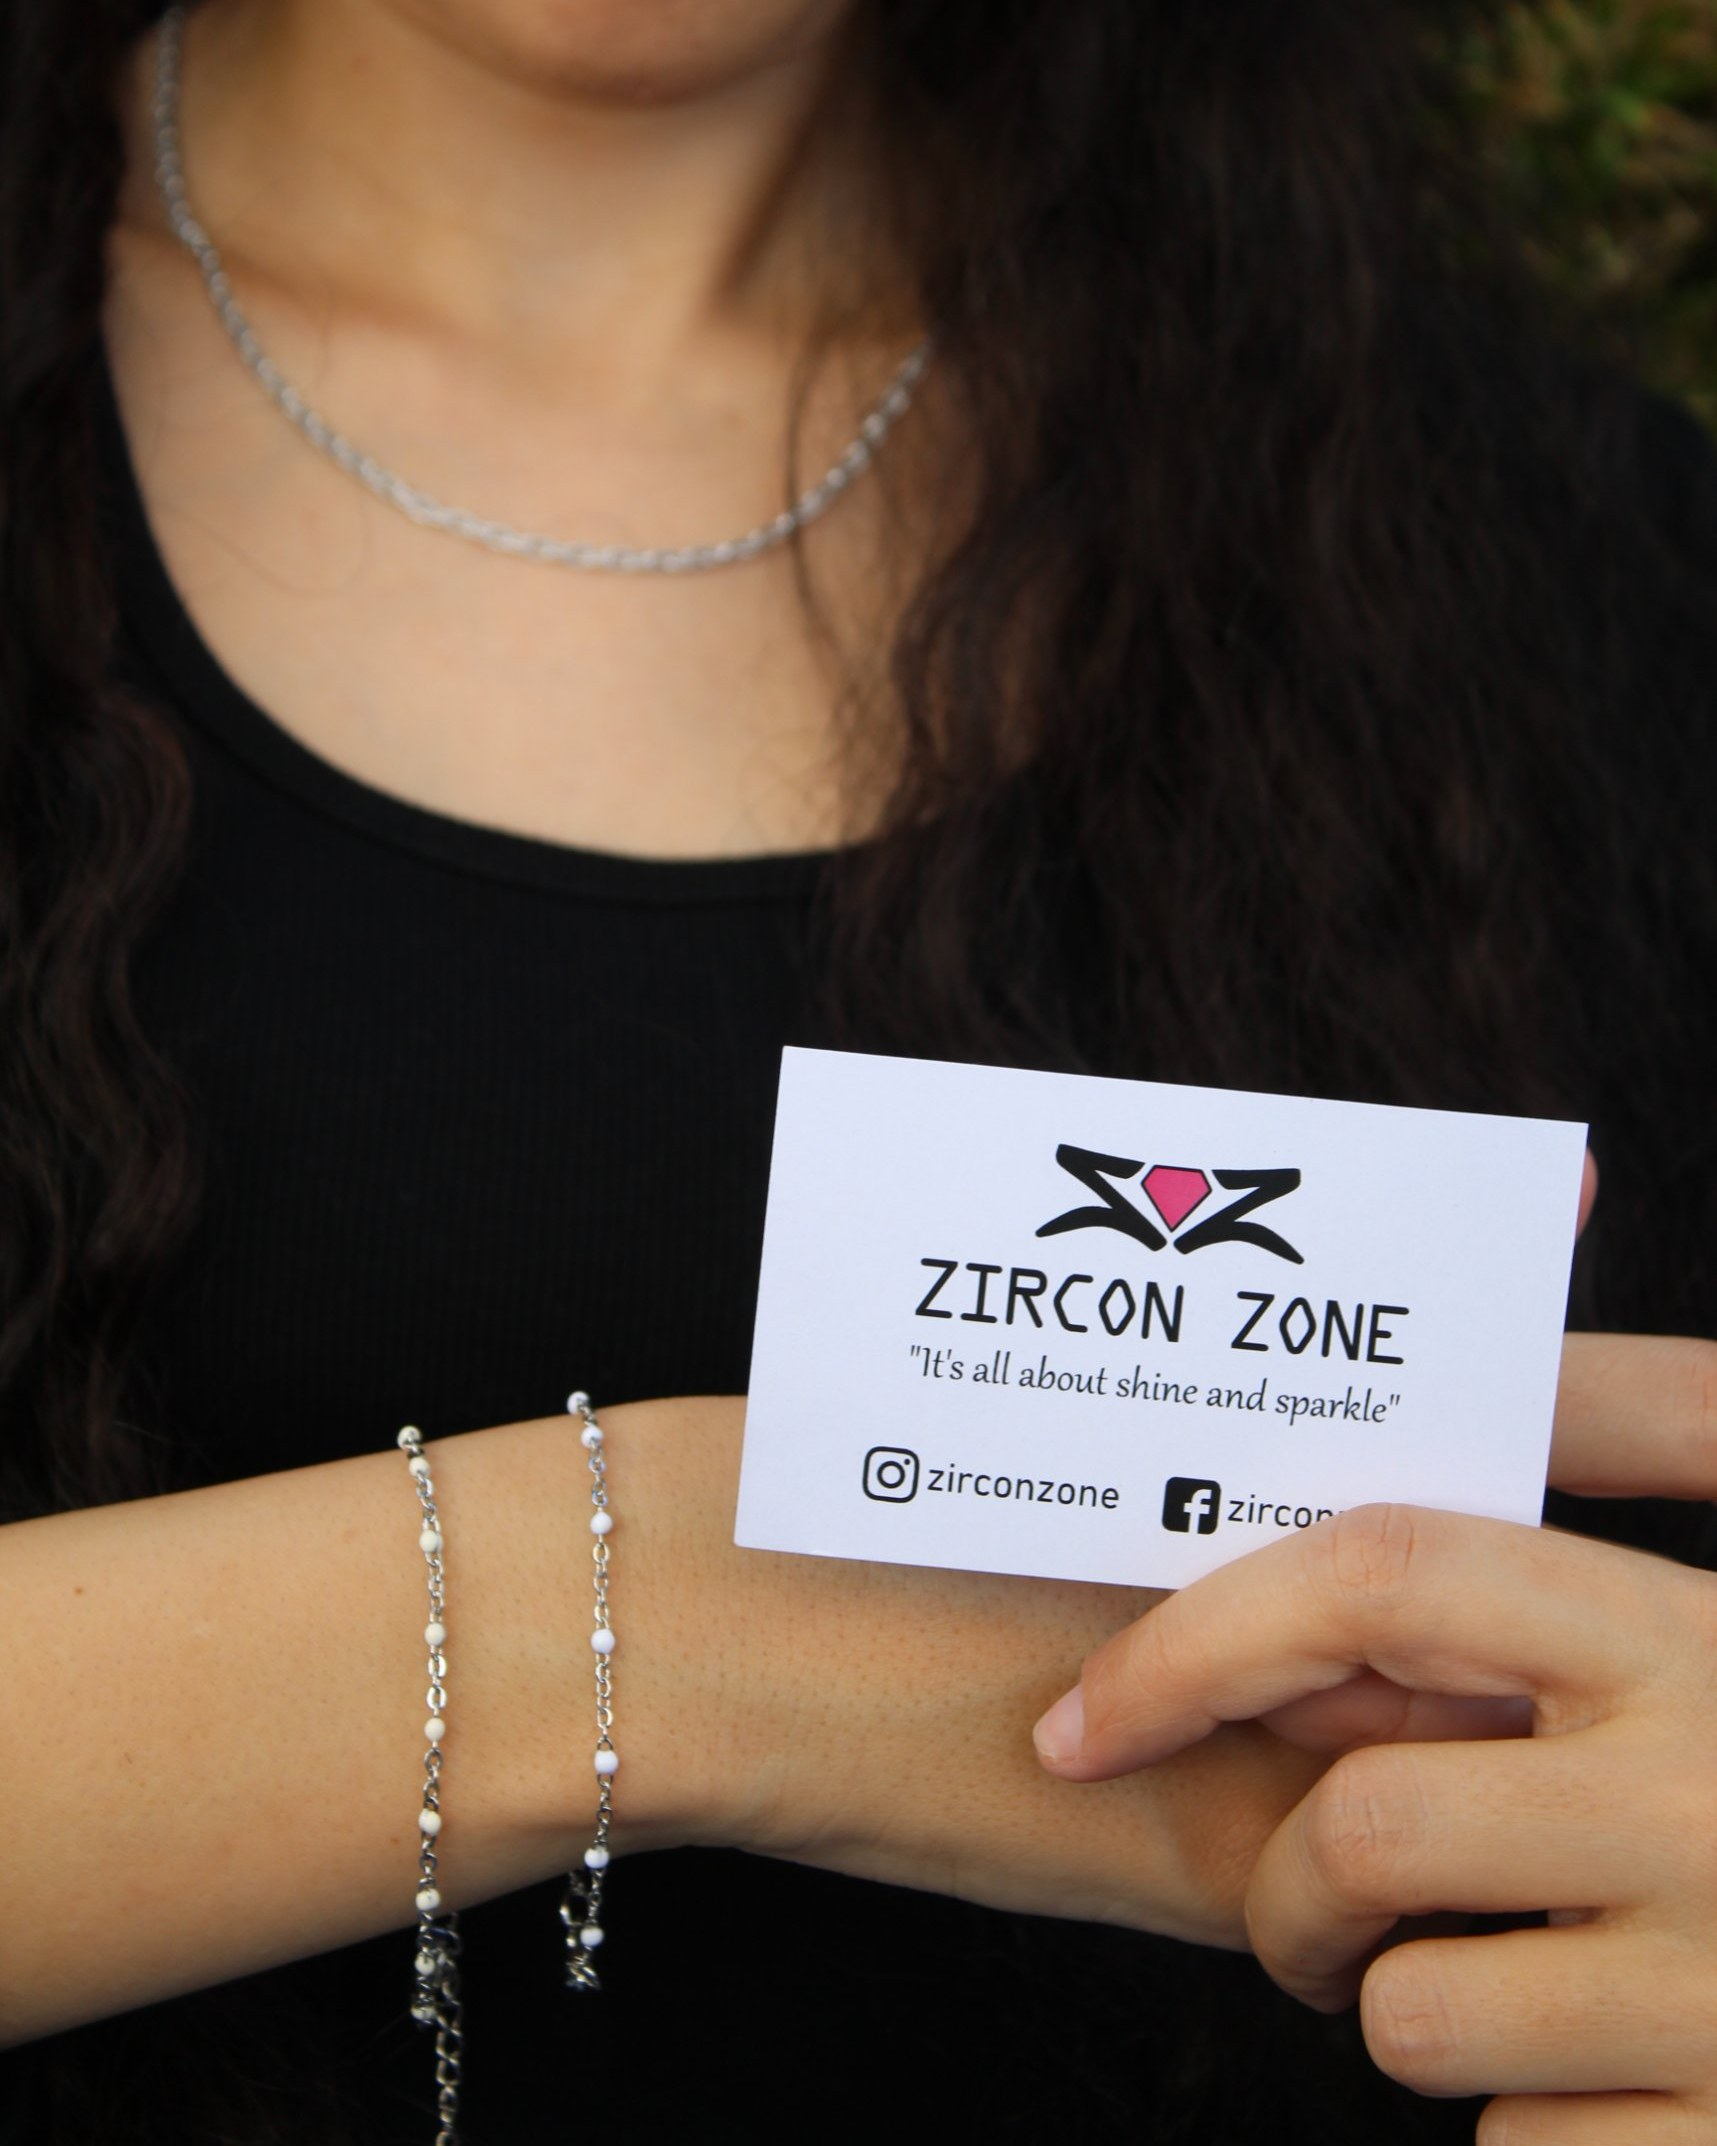
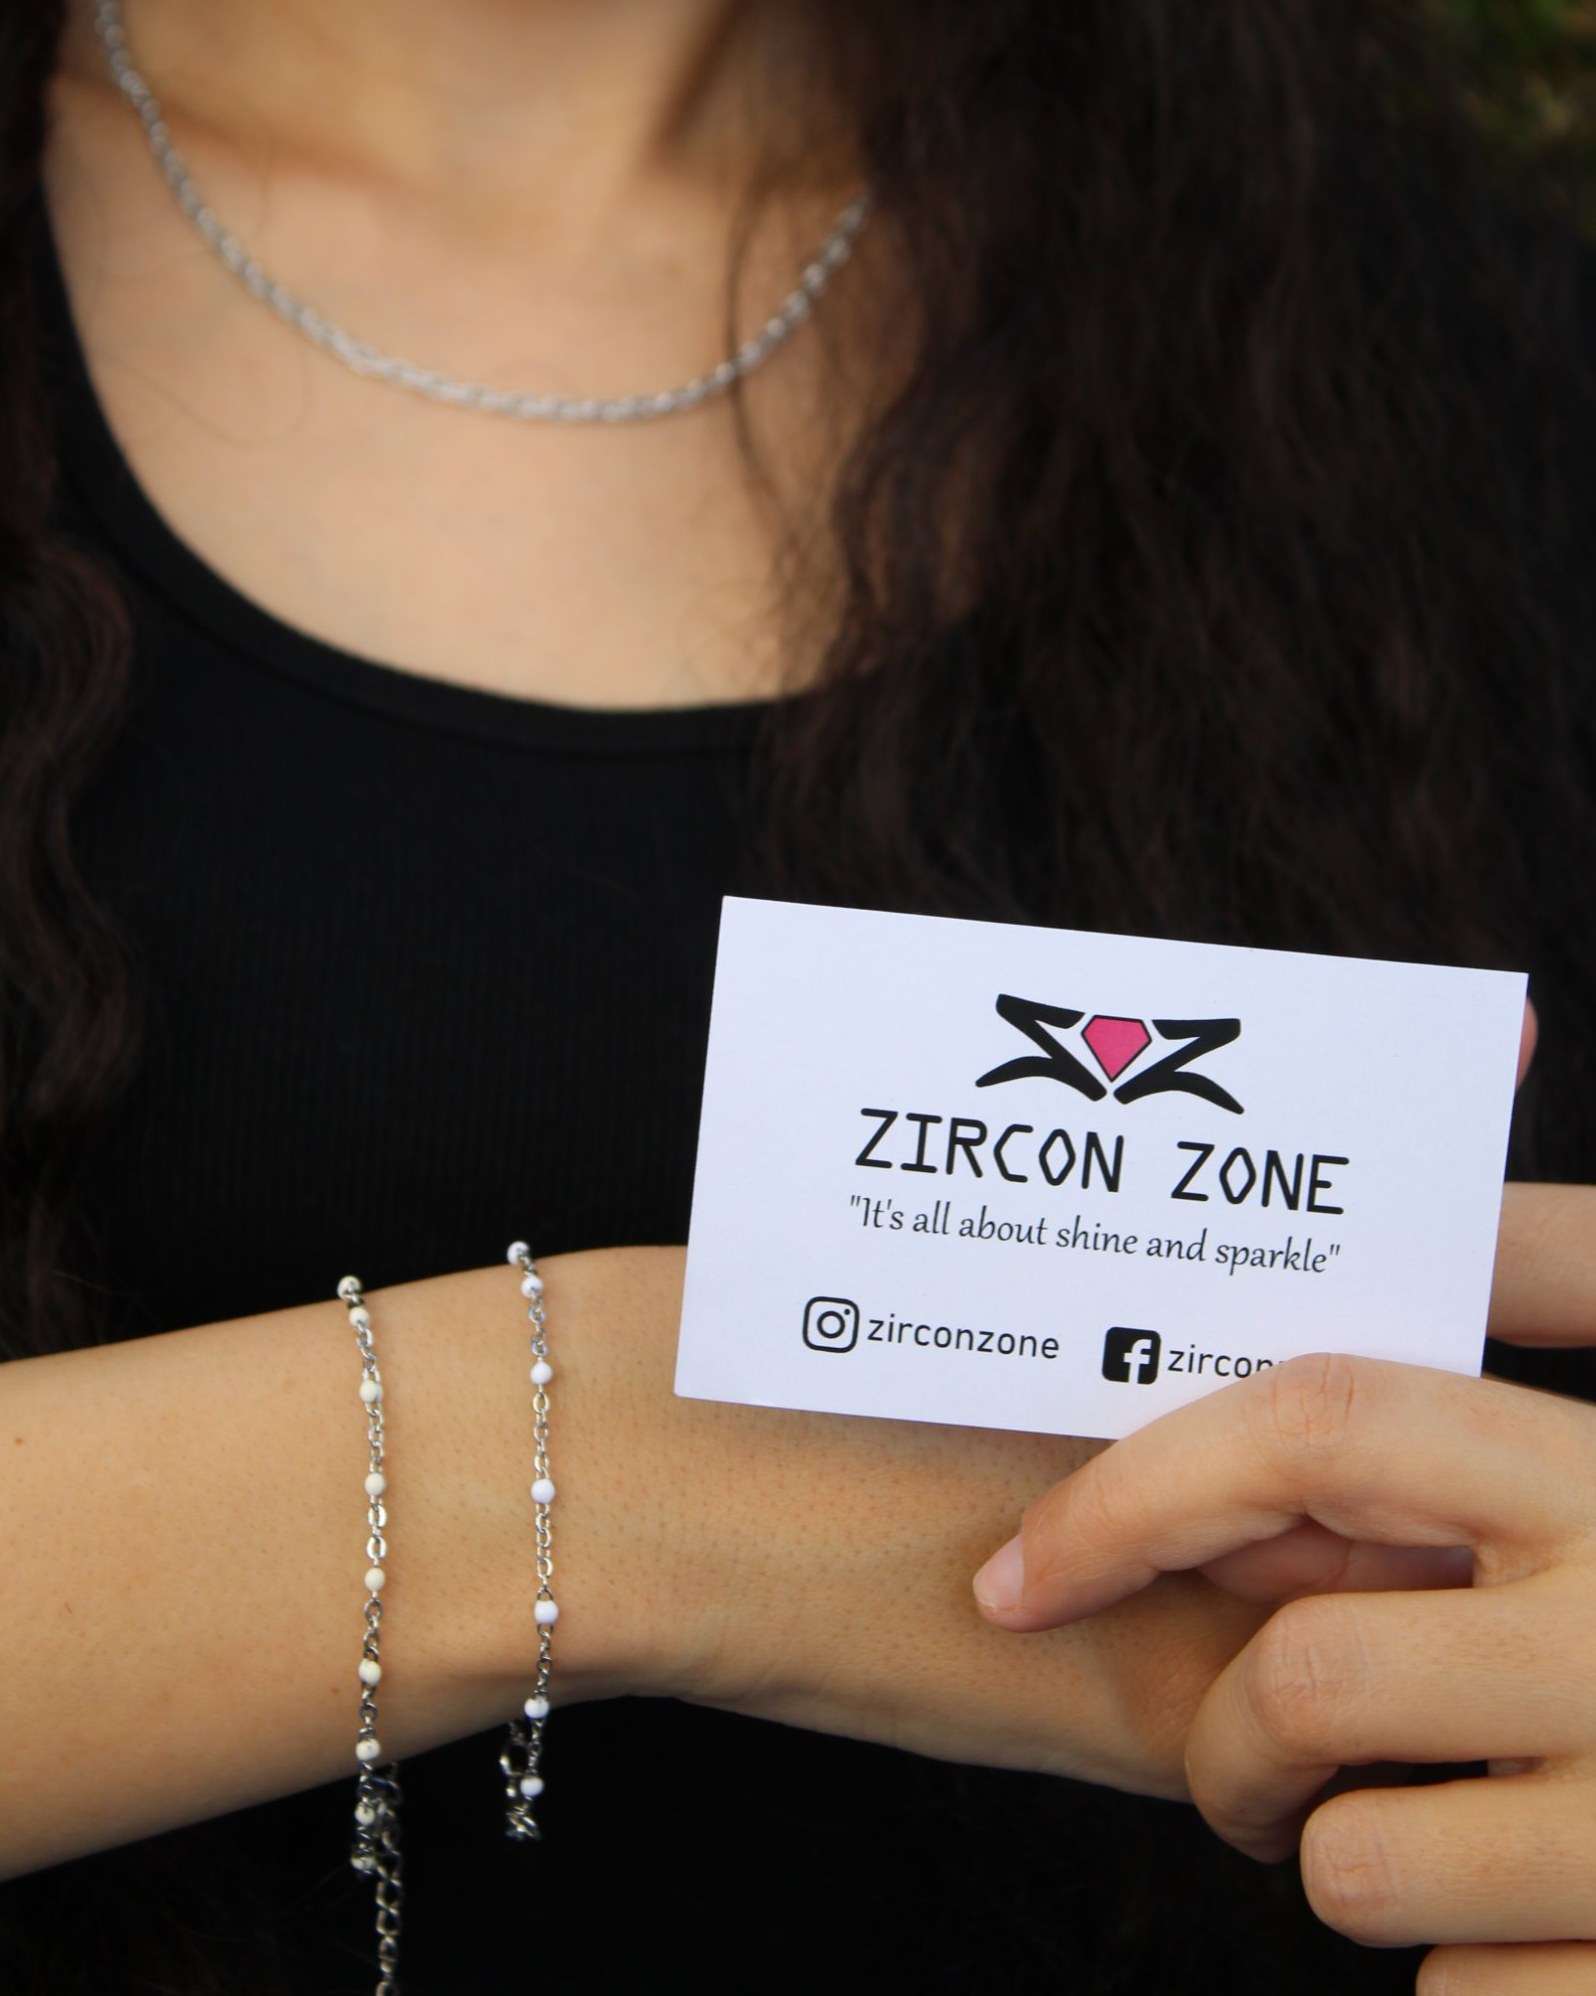
Home hero: crop below the chin
Claude-Session: https://claude.ai/code/session_01D34MmGYoTrdKPLxeYFwEr4

diff --git a/index.html b/index.html
@@ -75,7 +75,7 @@
         </div>
       </div>
       <div class="hero-media reveal">
-        <img class="main" src="images/web/HERO-HER.webp?v=3" alt="Woman wearing a Zircon Zone silver necklace and bracelets, holding a Zircon Zone card" width="1280" height="1600" fetchpriority="high">
+        <img class="main" src="images/web/HERO-HER.webp?v=4" alt="Woman wearing a Zircon Zone silver necklace and bracelets, holding a Zircon Zone card" width="1280" height="1600" fetchpriority="high">
         <img class="float" src="images/web/HERO-HIM.webp?v=2" alt="Men's gold and silver curb chain bracelets" width="1500" height="1000">
       </div>
     </div>
